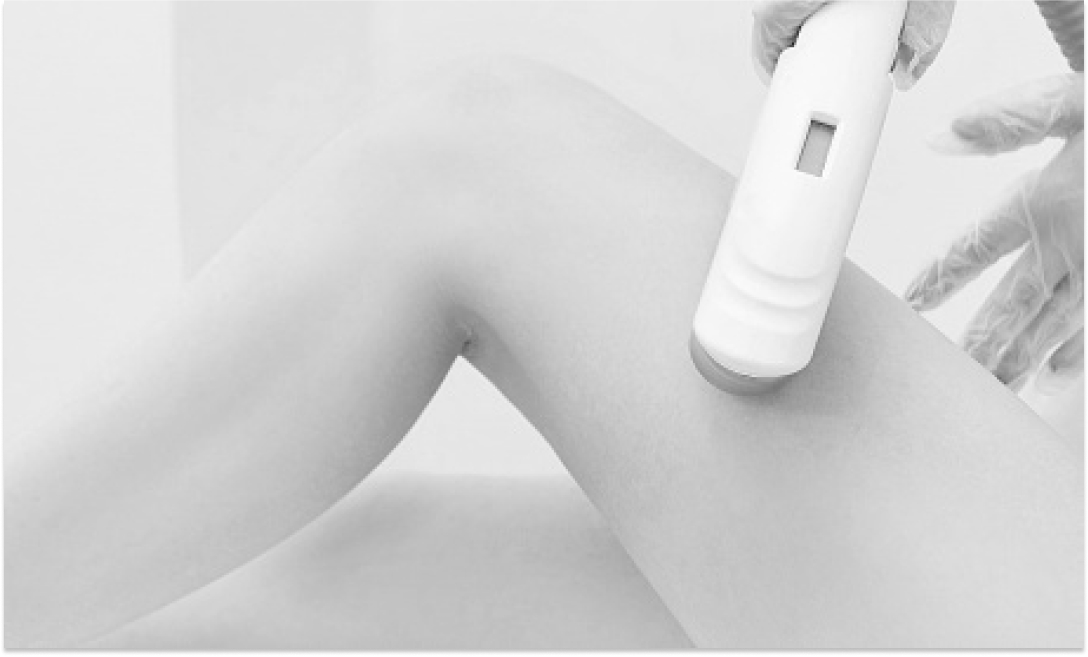
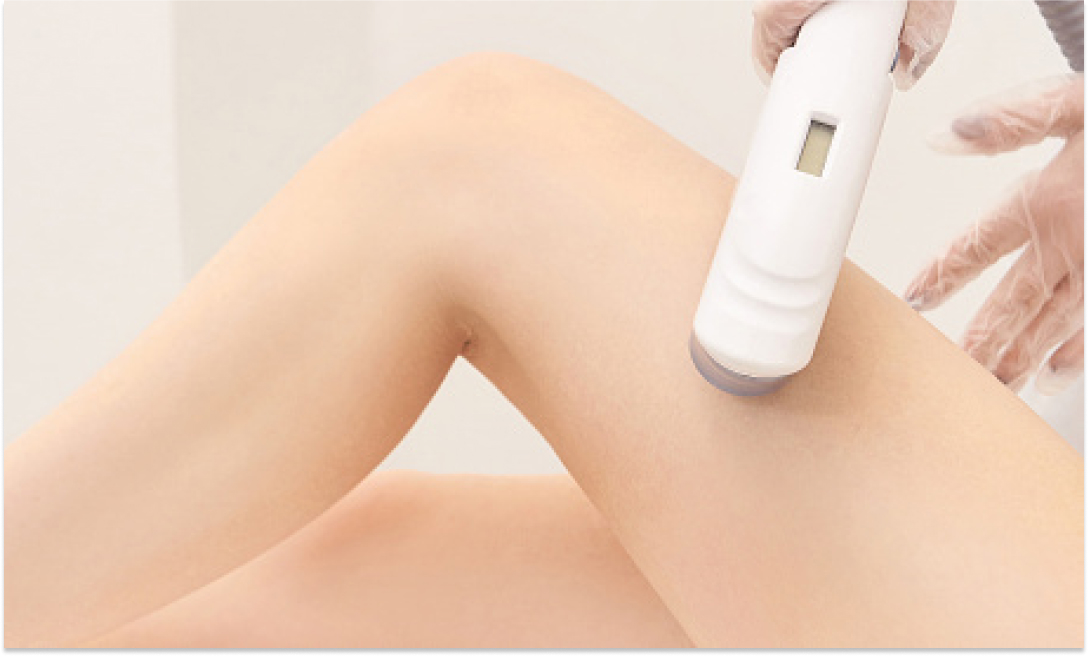
Fixed hero image. Replaced bw images with color

diff --git a/src/components/ServiceCard.tsx b/src/components/ServiceCard.tsx
@@ -1,10 +1,9 @@
 import React from 'react';
-import Button from '@mui/material/Button';
-import Card from '@mui/material/Card';
-import CardMedia from '@mui/material/CardMedia';
-import CardActions from '@mui/material/CardActions';
-import CardContent from '@mui/material/CardContent';
+import NextLink from 'next/link';
+import Box from '@mui/material/Box';
 import Typography from '@mui/material/Typography';
+import { LazyLoadImage } from 'react-lazy-load-image-component';
+import Link from '@mui/material/Link';
 
 interface Props {
   title: string;
@@ -13,24 +12,38 @@ interface Props {
 }
 
 const ServiceCard = ({ title, image, link }: Props): JSX.Element => (
-  <Card sx={{ maxWidth: 250, mx: 'auto' }}>
-    <CardContent>
-      <Typography gutterBottom variant="h3" component="div">
-        {title}
-      </Typography>
-    </CardContent>
-    <CardMedia
-      component="img"
-      height="140"
-      image={`/services/${image}`}
-      alt={title}
-    />
-    <CardActions>
-      <Button size="small" component="a" href={link}>
-        Learn More
-      </Button>
-    </CardActions>
-  </Card>
+  <NextLink href={link} passHref>
+    <Link sx={{ textDecoration: 'none !important' }}>
+      <Box
+        padding={2}
+        bgcolor={'background.paper'}
+        borderRadius={2}
+        overflow={'hidden'}
+        boxShadow={3}
+        marginBottom={2}
+      >
+        <Box
+          component={LazyLoadImage}
+          effect="blur"
+          src={`/services/${image}`}
+          alt={title}
+          height={1}
+          width={1}
+          sx={{
+            transition: 'opacity, transform ease 0.3s !important',
+            filter: 'grayscale(100%)',
+            '&:hover': {
+              transform: 'scale(1.02)',
+              filter: 'none',
+            },
+          }}
+        />
+        <Box display={'flex'} justifyContent={'center'}>
+          <Typography variant={'body1'}>{title}</Typography>
+        </Box>
+      </Box>
+    </Link>
+  </NextLink>
 );
 
 export default ServiceCard;

diff --git a/src/components/Hero.tsx b/src/components/Hero.tsx
@@ -1,4 +1,4 @@
-import React, { useEffect } from 'react';
+import React from 'react';
 import { alpha } from '@mui/material/styles';
 import Box from '@mui/material/Box';
 import Container from 'components/Container';
@@ -9,51 +9,19 @@ interface Props {
 }
 
 const Hero = ({ image, children }: Props): JSX.Element => {
-  useEffect(() => {
-    const jarallaxInit = async () => {
-      const jarallaxElems = document.querySelectorAll('.jarallax');
-      if (!jarallaxElems || (jarallaxElems && jarallaxElems.length === 0)) {
-        return;
-      }
-
-      const { jarallax } = await import('jarallax');
-      jarallax(jarallaxElems, { speed: 0.2 });
-    };
-
-    jarallaxInit();
-  });
-
   return (
     <Box
-      className={'jarallax'}
-      data-jarallax
-      data-speed="0.2"
-      position={'relative'}
-      minHeight={{ xs: 400, sm: 500, md: 600 }}
-      display={'flex'}
-      alignItems={'center'}
-      marginTop={-13}
-      paddingTop={13}
-      id="agency__portfolio-item--js-scroll"
+      position="relative"
+      sx={{
+        objectFit: 'cover',
+        backgroundRepeat: 'no-repeat',
+        backgroundSize: 'cover',
+        backgroundPosition: 'center center',
+        backgroundImage: `url(${image})`,
+      }}
+      marginTop={-9}
+      paddingTop={9}
     >
-      <Box
-        className={'jarallax-img'}
-        sx={{
-          position: 'absolute',
-          objectFit: 'cover',
-          /* support for plugin https://github.com/bfred-it/object-fit-images */
-          fontFamily: 'object-fit: cover;',
-          top: 0,
-          left: 0,
-          width: '100%',
-          height: '100%',
-          zIndex: -1,
-          backgroundRepeat: 'no-repeat',
-          backgroundSize: 'cover',
-          backgroundPosition: 'center center',
-          backgroundImage: `url(${image})`,
-        }}
-      />
       <Box
         sx={{
           position: 'absolute',

diff --git a/src/theme/index.ts b/src/theme/index.ts
@@ -43,7 +43,7 @@ const getTheme = (): Theme =>
           letterSpacing: '0.1rem',
           fontSize: '0.9rem',
         },
-        h5: {
+        subtitle1: {
           fontFamily: '"Raleway", sans-serif',
           letterSpacing: '0.1rem',
           fontSize: '1.5rem',

diff --git a/src/pages/index.tsx b/src/pages/index.tsx
@@ -35,7 +35,7 @@ const Home: NextPage = () => {
         </Typography>
         <Typography
           component="p"
-          variant="h5"
+          variant="subtitle1"
           paragraph
           sx={{ mt: 2, color: 'common.white' }}
         >
